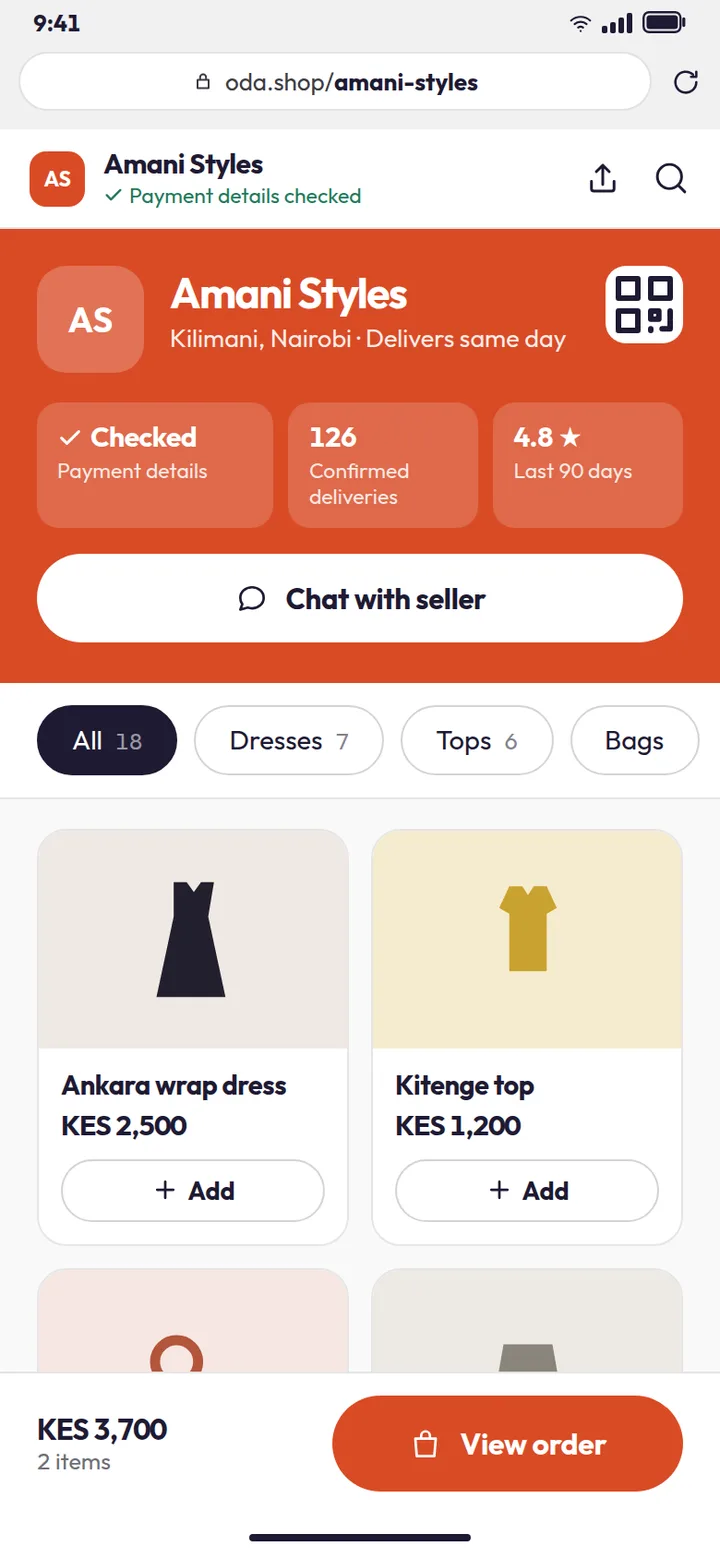
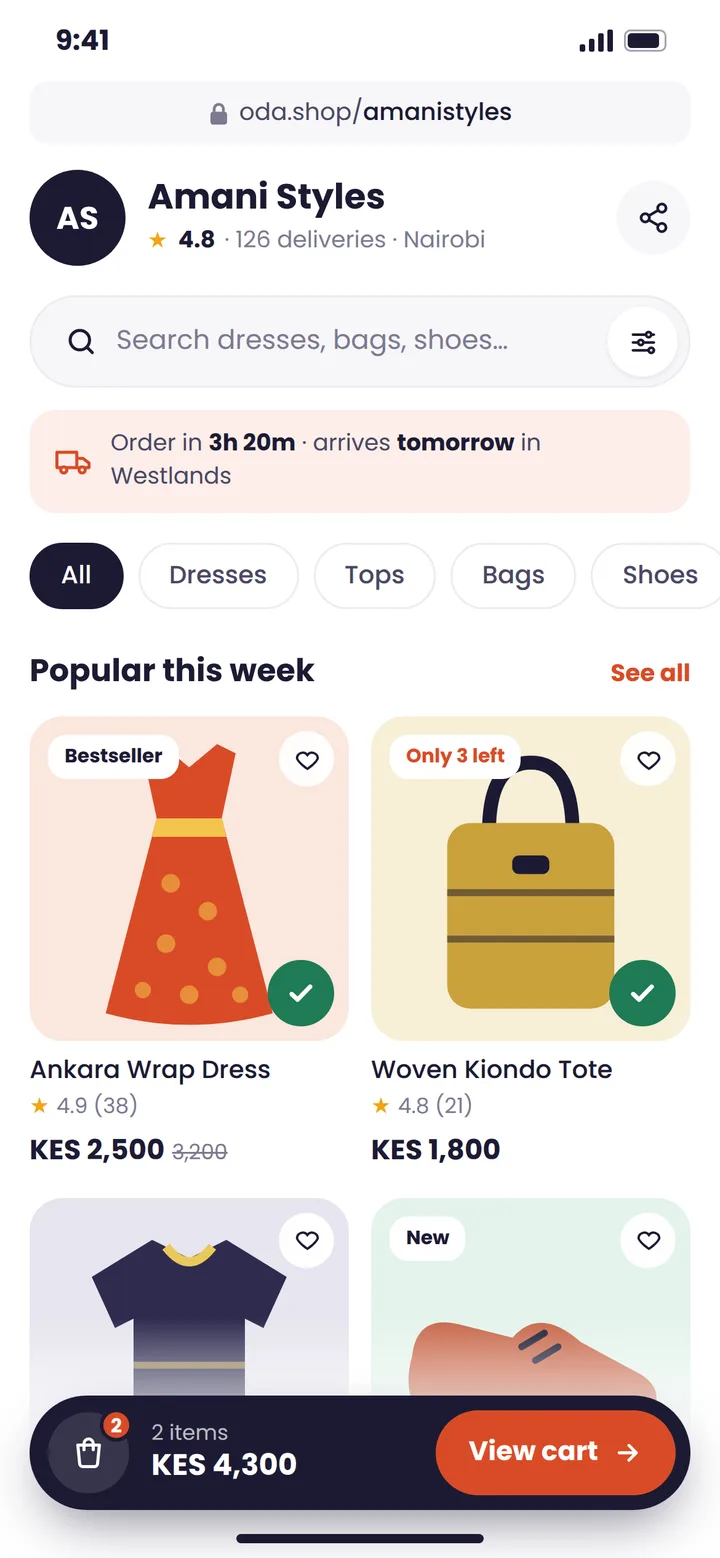
ODA: the buyer's journey, in one row of seven screens
public/assets/oda/ from oda-screens-v2.zip (7 WebP, 720x1558, 45-64 KB):
buyer-shop and buyer-tracking replaced, buyer-search, -cart, -checkout,
-confirmation and -delivered added. oda-home, oda-orders, oda-order-detail,
oda-share-shop and oda-buyer-pay deleted.

The gallery is one unlabelled row in this order with the given alt text:
shop, search, cart, checkout, confirmation, tracking, delivered. The
"Early designs…" caption stays. Grouping stays available in the template
(Screen.group), unused for now.

Tests follow: the pack's ODA screens are one group of seven. The ODA "free"
guard lets exactly "free delivery" / "free-delivery" through: the cart
screen's alt text describes the seller's own delivery offer in the app, not
ODA's pricing; any other "free" still fails.

Claude-Session: https://claude.ai/code/session_01CS2xY38CEVozp9zK25rQxk

diff --git a/lib/site.ts b/lib/site.ts
@@ -77,8 +77,9 @@ export type Screen = {
   alt: string;
   width: number;
   height: number;
-  /** A label to group screens under (ODA: "For you" / "For your buyers").
-   *  Groups show in the order they first appear. */
+  /** A label to group screens under (e.g. seller and buyer screens), shown
+   *  over each group; groups show in the order they first appear. None set:
+   *  one unlabelled row. */
   group?: string;
 };
 
@@ -279,53 +280,46 @@ export const products: Product[] = [
     screensNote: "Early designs, still in progress. Shop names and links are examples.",
     screens: [
       {
-        src: "/assets/oda/oda-home.webp",
-        alt: "ODA seller home showing new orders, payments to confirm and this week's sales",
-        width: 720,
-        height: 1600,
-        group: "For you",
-      },
-      {
-        src: "/assets/oda/oda-orders.webp",
-        alt: "Orders list sorted into needs action, new and paid",
-        width: 720,
-        height: 1600,
-        group: "For you",
-      },
-      {
-        src: "/assets/oda/oda-order-detail.webp",
-        alt: "An order where the buyer says she has paid, with the M-Pesa code to check before confirming",
-        width: 720,
-        height: 1600,
-        group: "For you",
-      },
-      {
-        src: "/assets/oda/oda-share-shop.webp",
-        alt: "Sharing a shop link to TikTok, Instagram or WhatsApp with a ready-made caption",
-        width: 720,
-        height: 1600,
-        group: "For you",
-      },
-      {
         src: "/assets/oda/oda-buyer-shop.webp",
-        alt: "A buyer's view of a seller's shop link with products and a checked badge",
+        alt: "A seller's ODA shop page with products, ratings and delivery count",
         width: 720,
         height: 1558,
-        group: "For your buyers",
       },
       {
-        src: "/assets/oda/oda-buyer-pay.webp",
-        alt: "Step-by-step M-Pesa payment instructions showing the exact name the buyer should see",
+        src: "/assets/oda/oda-buyer-search.webp",
+        alt: "Searching a shop with size and price filters",
         width: 720,
         height: 1558,
-        group: "For your buyers",
+      },
+      {
+        src: "/assets/oda/oda-buyer-cart.webp",
+        alt: "A buyer's cart with a free-delivery progress bar",
+        width: 720,
+        height: 1558,
+      },
+      {
+        src: "/assets/oda/oda-buyer-checkout.webp",
+        alt: "Checkout asking only for name, phone number and delivery address",
+        width: 720,
+        height: 1558,
+      },
+      {
+        src: "/assets/oda/oda-buyer-confirmation.webp",
+        alt: "Order placed, with the next steps explained",
+        width: 720,
+        height: 1558,
       },
       {
         src: "/assets/oda/oda-buyer-tracking.webp",
-        alt: "Order tracking showing the order on the way with the rider's details",
+        alt: "Live delivery tracking with the rider's details and a delivery code",
         width: 720,
         height: 1558,
-        group: "For your buyers",
+      },
+      {
+        src: "/assets/oda/oda-buyer-delivered.webp",
+        alt: "Delivered order with a prompt to rate it",
+        width: 720,
+        height: 1558,
       },
     ],
     summary:

diff --git a/tests/e2e/product-pages.spec.ts b/tests/e2e/product-pages.spec.ts
@@ -289,20 +289,15 @@ const PACK = {
     smallPrint: "ODA is still being built with real sellers. Features may change before launch.",
     groups: [
       {
-        label: "For you",
+        label: null,
         screens: [
-          ["oda-home.webp", "ODA seller home showing new orders, payments to confirm and this week's sales"],
-          ["oda-orders.webp", "Orders list sorted into needs action, new and paid"],
-          ["oda-order-detail.webp", "An order where the buyer says she has paid, with the M-Pesa code to check before confirming"],
-          ["oda-share-shop.webp", "Sharing a shop link to TikTok, Instagram or WhatsApp with a ready-made caption"],
-        ],
-      },
-      {
-        label: "For your buyers",
-        screens: [
-          ["oda-buyer-shop.webp", "A buyer's view of a seller's shop link with products and a checked badge"],
-          ["oda-buyer-pay.webp", "Step-by-step M-Pesa payment instructions showing the exact name the buyer should see"],
-          ["oda-buyer-tracking.webp", "Order tracking showing the order on the way with the rider's details"],
+          ["oda-buyer-shop.webp", "A seller's ODA shop page with products, ratings and delivery count"],
+          ["oda-buyer-search.webp", "Searching a shop with size and price filters"],
+          ["oda-buyer-cart.webp", "A buyer's cart with a free-delivery progress bar"],
+          ["oda-buyer-checkout.webp", "Checkout asking only for name, phone number and delivery address"],
+          ["oda-buyer-confirmation.webp", "Order placed, with the next steps explained"],
+          ["oda-buyer-tracking.webp", "Live delivery tracking with the rider's details and a delivery code"],
+          ["oda-buyer-delivered.webp", "Delivered order with a prompt to rate it"],
         ],
       },
     ],
@@ -394,7 +389,7 @@ test.describe("pricing stays off the site until it is confirmed", () => {
 
   // On ODA "free" can only be about price. (Bookflow's "free gaps" are open
   // slots in the day, so this one is ODA's alone.)
-  test("ODA says nothing is free", async ({ page }) => {
+  test("ODA calls nothing of its own free", async ({ page }) => {
     await page.goto("/products/oda/");
     const text = await page.evaluate(() =>
       [
@@ -405,6 +400,8 @@ test.describe("pricing stays off the site until it is confirmed", () => {
         ),
       ].join("\n")
     );
-    expect(text).not.toMatch(/\bfree\b/i);
+    // The one allowed use: the cart screen's alt text describes the seller's
+    // own free-delivery offer shown in the app, not ODA's pricing.
+    expect(text.replace(/\bfree[- ]delivery\b/gi, "")).not.toMatch(/\bfree\b/i);
   });
 });
